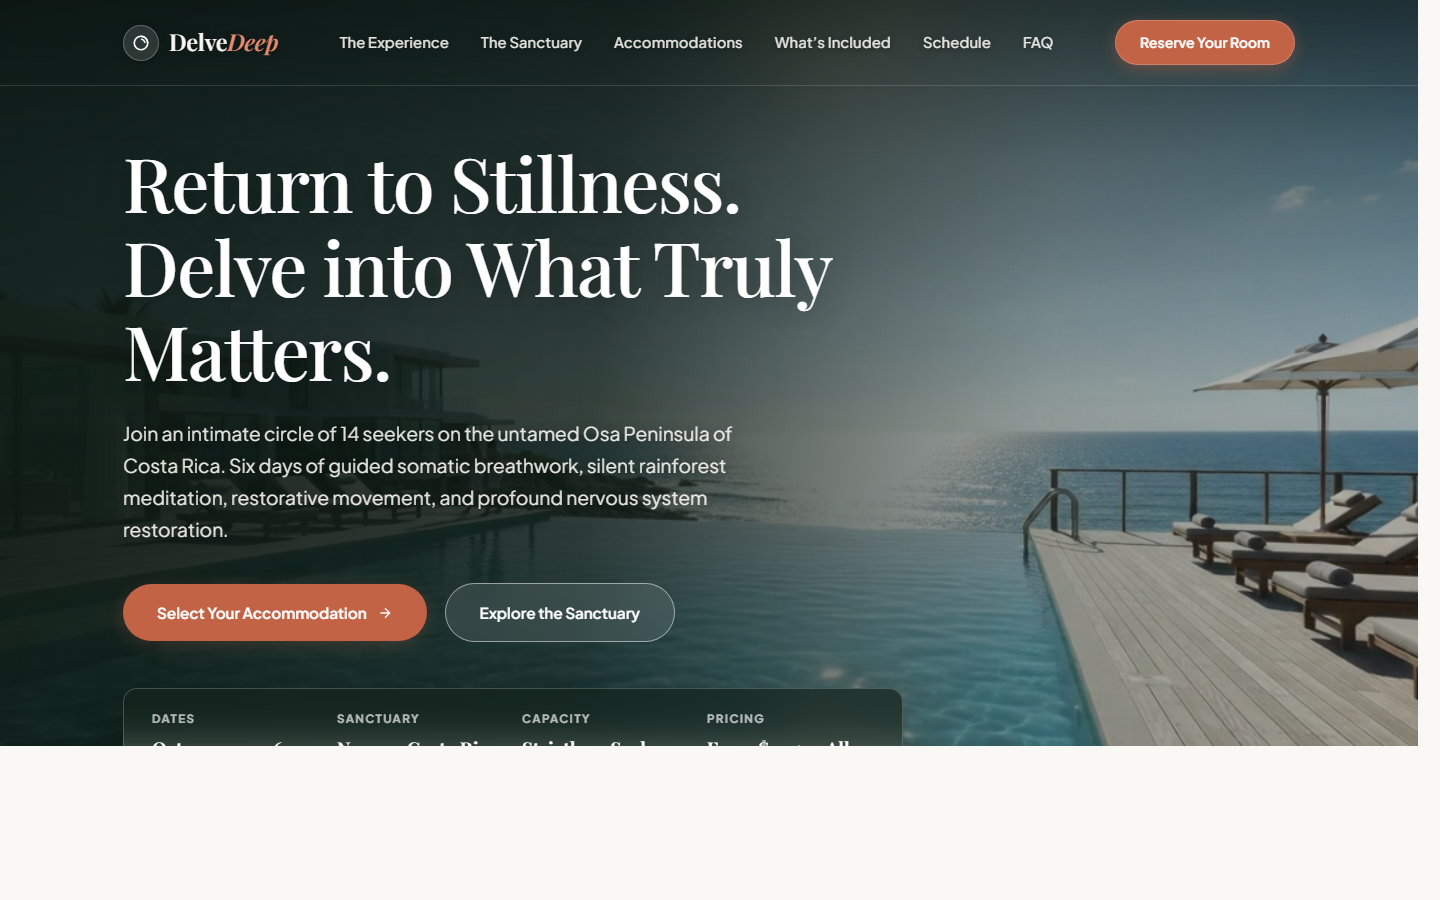
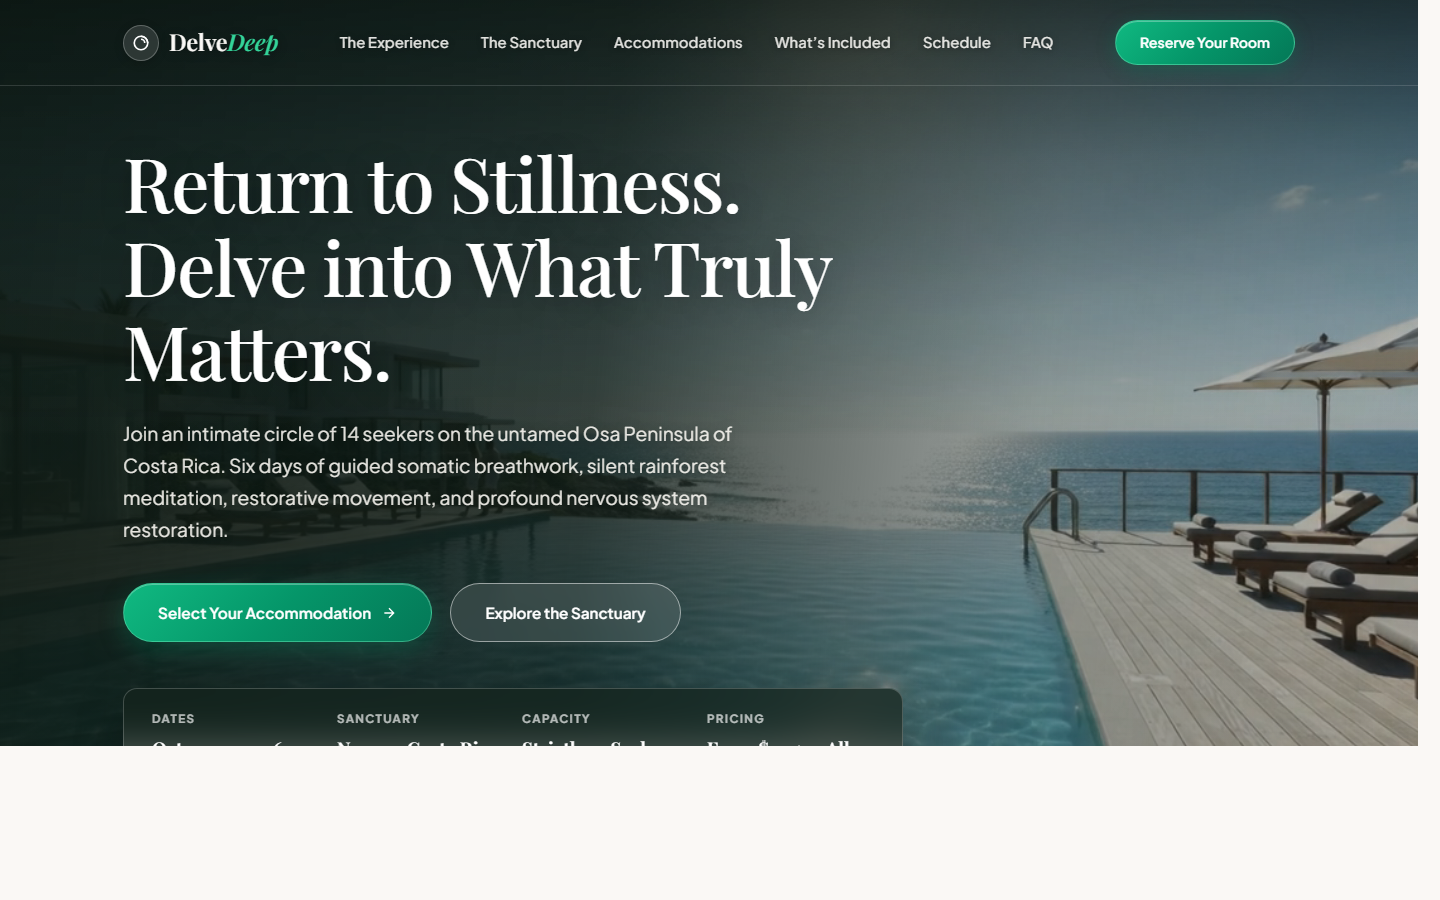
style(delvedeep): replace terracotta orange with luxury emerald jewel gradient across CTA buttons and branding

diff --git a/delvedeep.html b/delvedeep.html
@@ -23,9 +23,9 @@
       --forest-light: #2D483B;
       --sage: #507160;
       --sage-soft: #EDF3EF;
-      --terracotta: #C26346;
-      --terracotta-dark: #A44F35;
-      --terracotta-soft: #FAF0EC;
+      --terracotta: #059669;
+      --terracotta-dark: #047857;
+      --terracotta-soft: #ECFDF5;
       --sand: #D9CEBE;
       --text: #1C221E;
       --text-muted: #525C55;
@@ -145,14 +145,18 @@
       box-shadow: 0 8px 24px rgba(31,51,42,0.24);
     }
     .btn-terracotta {
-      background: var(--terracotta);
-      color: #FFFFFF;
-      box-shadow: 0 4px 18px rgba(194,99,70,0.22);
+      background: linear-gradient(135deg, #10B981 0%, #059669 50%, #047857 100%);
+      color: #FFFFFF !important;
+      border: 1px solid rgba(110, 231, 183, 0.45);
+      box-shadow: 0 8px 24px rgba(4, 120, 87, 0.38), inset 0 1px 0 rgba(255, 255, 255, 0.3);
+      font-weight: 600;
+      letter-spacing: 0.01em;
     }
     .btn-terracotta:hover {
-      background: var(--terracotta-dark);
+      background: linear-gradient(135deg, #34D399 0%, #10B981 50%, #059669 100%);
+      border-color: rgba(167, 243, 208, 0.65);
       transform: translateY(-2px);
-      box-shadow: 0 8px 26px rgba(194,99,70,0.32);
+      box-shadow: 0 12px 32px rgba(16, 185, 129, 0.48), inset 0 1px 0 rgba(255, 255, 255, 0.4);
     }
     .btn-outline {
       background: transparent;
@@ -224,7 +228,7 @@
       text-shadow: 0 2px 10px rgba(0, 0, 0, 0.4);
     }
     .brand-text span {
-      color: #E68A6E;
+      color: #34D399;
       font-style: italic;
     }
     .nav-links {
@@ -249,16 +253,17 @@
     .nav-cta {
       padding: 10px 24px;
       font-size: 0.88rem;
-      background: var(--terracotta);
+      background: linear-gradient(135deg, #10B981 0%, #059669 50%, #047857 100%);
       color: #FFFFFF !important;
-      border: 1px solid rgba(255, 255, 255, 0.2);
-      box-shadow: 0 4px 16px rgba(194, 99, 70, 0.4);
-      transition: transform 0.2s, box-shadow 0.2s, background-color 0.2s;
+      border: 1px solid rgba(110, 231, 183, 0.45);
+      box-shadow: 0 4px 18px rgba(4, 120, 87, 0.38), inset 0 1px 0 rgba(255, 255, 255, 0.3);
+      transition: transform 0.2s, box-shadow 0.2s, background 0.2s;
     }
     .nav-cta:hover {
-      background: #B5583B;
+      background: linear-gradient(135deg, #34D399 0%, #10B981 50%, #059669 100%);
+      border-color: rgba(167, 243, 208, 0.7);
       transform: translateY(-1px);
-      box-shadow: 0 6px 20px rgba(194, 99, 70, 0.5);
+      box-shadow: 0 6px 24px rgba(16, 185, 129, 0.5);
     }
 
     /* ================= FULL CINEMATIC HERO SECTION ================= */
@@ -338,7 +343,7 @@
       margin-bottom: 24px;
     }
     .eyebrow-light {
-      color: #E68A6E !important;
+      color: #34D399 !important;
       margin-bottom: 0 !important;
       font-size: 0.78rem;
       letter-spacing: 0.16em;
@@ -352,7 +357,7 @@
       content: '';
       width: 24px;
       height: 1.5px;
-      background: #E68A6E !important;
+      background: #34D399 !important;
     }
     .badge-urgent-glass {
       background: rgba(217, 119, 6, 0.28);
@@ -493,8 +498,8 @@
       transition: all 0.25s ease;
     }
     .vid-glass-btn:hover {
-      background: rgba(194, 99, 70, 0.9);
-      border-color: rgba(255, 255, 255, 0.45);
+      background: rgba(5, 150, 105, 0.9);
+      border-color: rgba(110, 231, 183, 0.6);
       transform: translateY(-2px);
     }
     @media (max-width: 1100px) {
